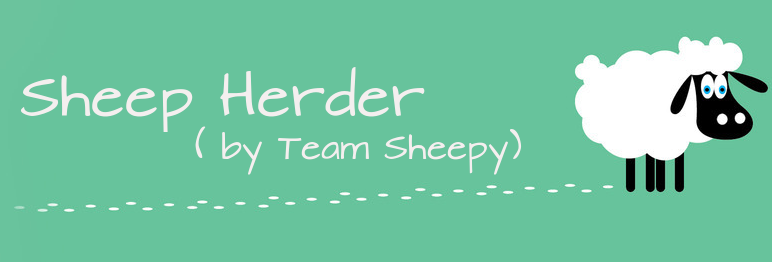
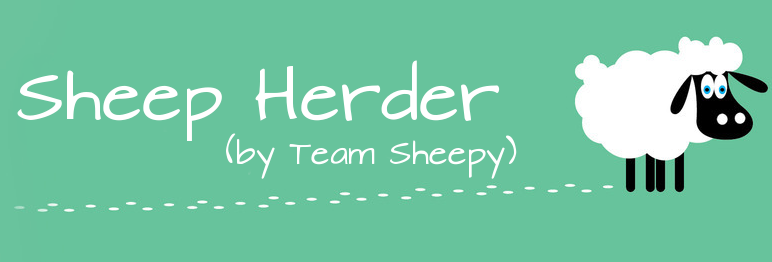
site geupdate voor Play Store release

Changed region(s): [[0.0, 0.2443, 0.6839, 0.6718]]

diff --git a/index.html b/index.html
@@ -46,6 +46,24 @@
       ga('send', 'pageview');
     </script>
 
+    <script>
+      var sourceSwap = function () {
+        var $this = $(this);
+        var newSource = $this.data('alt-src');
+        $this.data('alt-src', $this.attr('src'));
+        $this.attr('src', newSource);
+      }
+      $(function() {
+        $('img[data-alt-src]').each(function() {
+          new Image().src = $(this).data('alt-src');
+        }).hover(sourceSwap, sourceSwap);
+      });
+
+      $(function ()
+      { $("#questionnaire").tooltip({title: '<strong>We need your opinion!</strong><br/>Please fill in this 5-minute questionnaire and help us to improve our game.'});
+      });
+    </script>
+
 </head>
 
 <body id="page-top" class="index">
@@ -55,13 +73,28 @@
         <div class="container">
             <div class="row">
                <a class="navbar" href="http://blog.teamsheepy.be">Blog</a>
+               <a id="questionnaire" class="navbar" data-html="true" data-toggle="tooltip" data-placement="bottom" data-trigger="hover" href="http://teamsheepy.be/questionnaire.html">Questionnaire</a>
             </div>
             <div class="row">
                 <div class="col-lg-12">
-                    <img class="img-responsive" src="img/banner.png" alt="">
-                    <a onClick="ga('send', 'event', { eventCategory: 'download', eventAction: 'html5', eventLabel: 'v2.0'});" href="releases/html/index.html"><button class="btn-outline" value="Play online"><span class="glyphicon glyphicon-play"></span> Play it online</button></a>
-                    <a onClick="ga('send', 'event', { eventCategory: 'download', eventAction: 'android', eventLabel: 'v2.0'});" href="releases/SheepHerder.apk" target="_blank"><button class="btn-outline" value="Get for desktop"><span class="glyphicon glyphicon-download"></span> Get it for Android</button></a>
-                    <a onClick="ga('send', 'event', { eventCategory: 'download', eventAction: 'desktop', eventLabel: 'v2.0'});" href="releases/SheepHerder.jar" target="_blank"><button class="btn-outline" value="Get for desktop"><span class="glyphicon glyphicon-download"></span> Get it for desktop</button></a>
+                    <div class="row">
+                      <img id="banner" class=" banner img-responsive" src="img/banner.png" alt="">
+                    </div>
+                    <div class="row row-centered downloads">
+                      <div class="col-xs-4 col-md-3 col-centered">
+                        <a onClick="ga('send', 'event', { eventCategory: 'download', eventAction: 'html5', eventLabel: 'v1.4'});" href="releases/html/index.html">
+                          <img class="img-responsive" data-alt-src="img/Play Online black.png"  src="img/Play Online white.png" alt="Play Online">
+                        </a>
+                      </div>
+                      <div class="col-xs-4 col-md-3 col-centered">
+                        <a onClick="ga('send', 'event', { eventCategory: 'download', eventAction: 'android', eventLabel: 'v1.4'});" href="https://play.google.com/store/apps/details?id=be.teamsheepy.sheepherder.android" target="_blank">
+                          <img class="img-responsive" data-alt-src="img/Google Play black.png" src="img/Google Play white.png" alt="Google Play Store">
+                        </a>
+                      </div>
+                      <div class="col-xs-4 col-md-3 col-centered">
+                          <img class="img-responsive" data-alt-src="img/Apple App Store soon black.png" src="img/Apple App Store soon white.png" alt="Apple App Store">
+                      </div>
+                  </div>
                 </div>
             </div>
         </div>
@@ -93,8 +126,8 @@
                     <p>
                     We are three student at the KU Leuven, developping this game as
                     a project for the course "Fundamentals of CHI". You can follow
-                    our adventures on <a href="http://teamsheepy.blogspot.com">this</a>
-                    blog. Let us know if you have remarks/ideas for improvements/...
+                    our adventures on our <a href="http://teamsheepy.blogspot.com">blog</a>.
+                    Let us know if you have remarks/ideas for improvements/...
                     </p>
                     <br/>
                     <h4>Have fun!</h4>
@@ -109,6 +142,7 @@
             <div class="container">
                 <div class="row">
                     <div class="col-lg-12">
+                      <a style="color:white" class="pull-right" href="mailto:teamsheepy@outlook.com"><span class="glyphicon glyphicon-envelope" aria-hidden="true"></span> Send us an email</a>
                       &copy; 2014 by Team Sheepy
                     </div>
                 </div>

diff --git a/css/sheepherder.css b/css/sheepherder.css
@@ -106,22 +106,32 @@ header img {
     margin: 0 auto 0;
 }
 
+.row-centered {
+  text-align:center;
+}
+
+.col-centered {
+  display:inline-block;
+  float:none;
+  /* reset the text-align */
+  text-align:left;
+  /* inline-block space fix */
+  margin-right:-4px;
+}
+
 @media(min-width:768px) {
     header .container {
         padding-top: 0px;
         padding-bottom: 100px;
     }
 
-    header img {
+    #banner {
       padding-top:100px;
+      padding-bottom:70px;
     }
 
-    header .intro-text .name {
-        font-size: 4.75em;
-    }
-
-    header .intro-text .skills {
-        font-size: 1.75em;
+    #downloads{
+      margin-top:50px;
     }
 }
 
